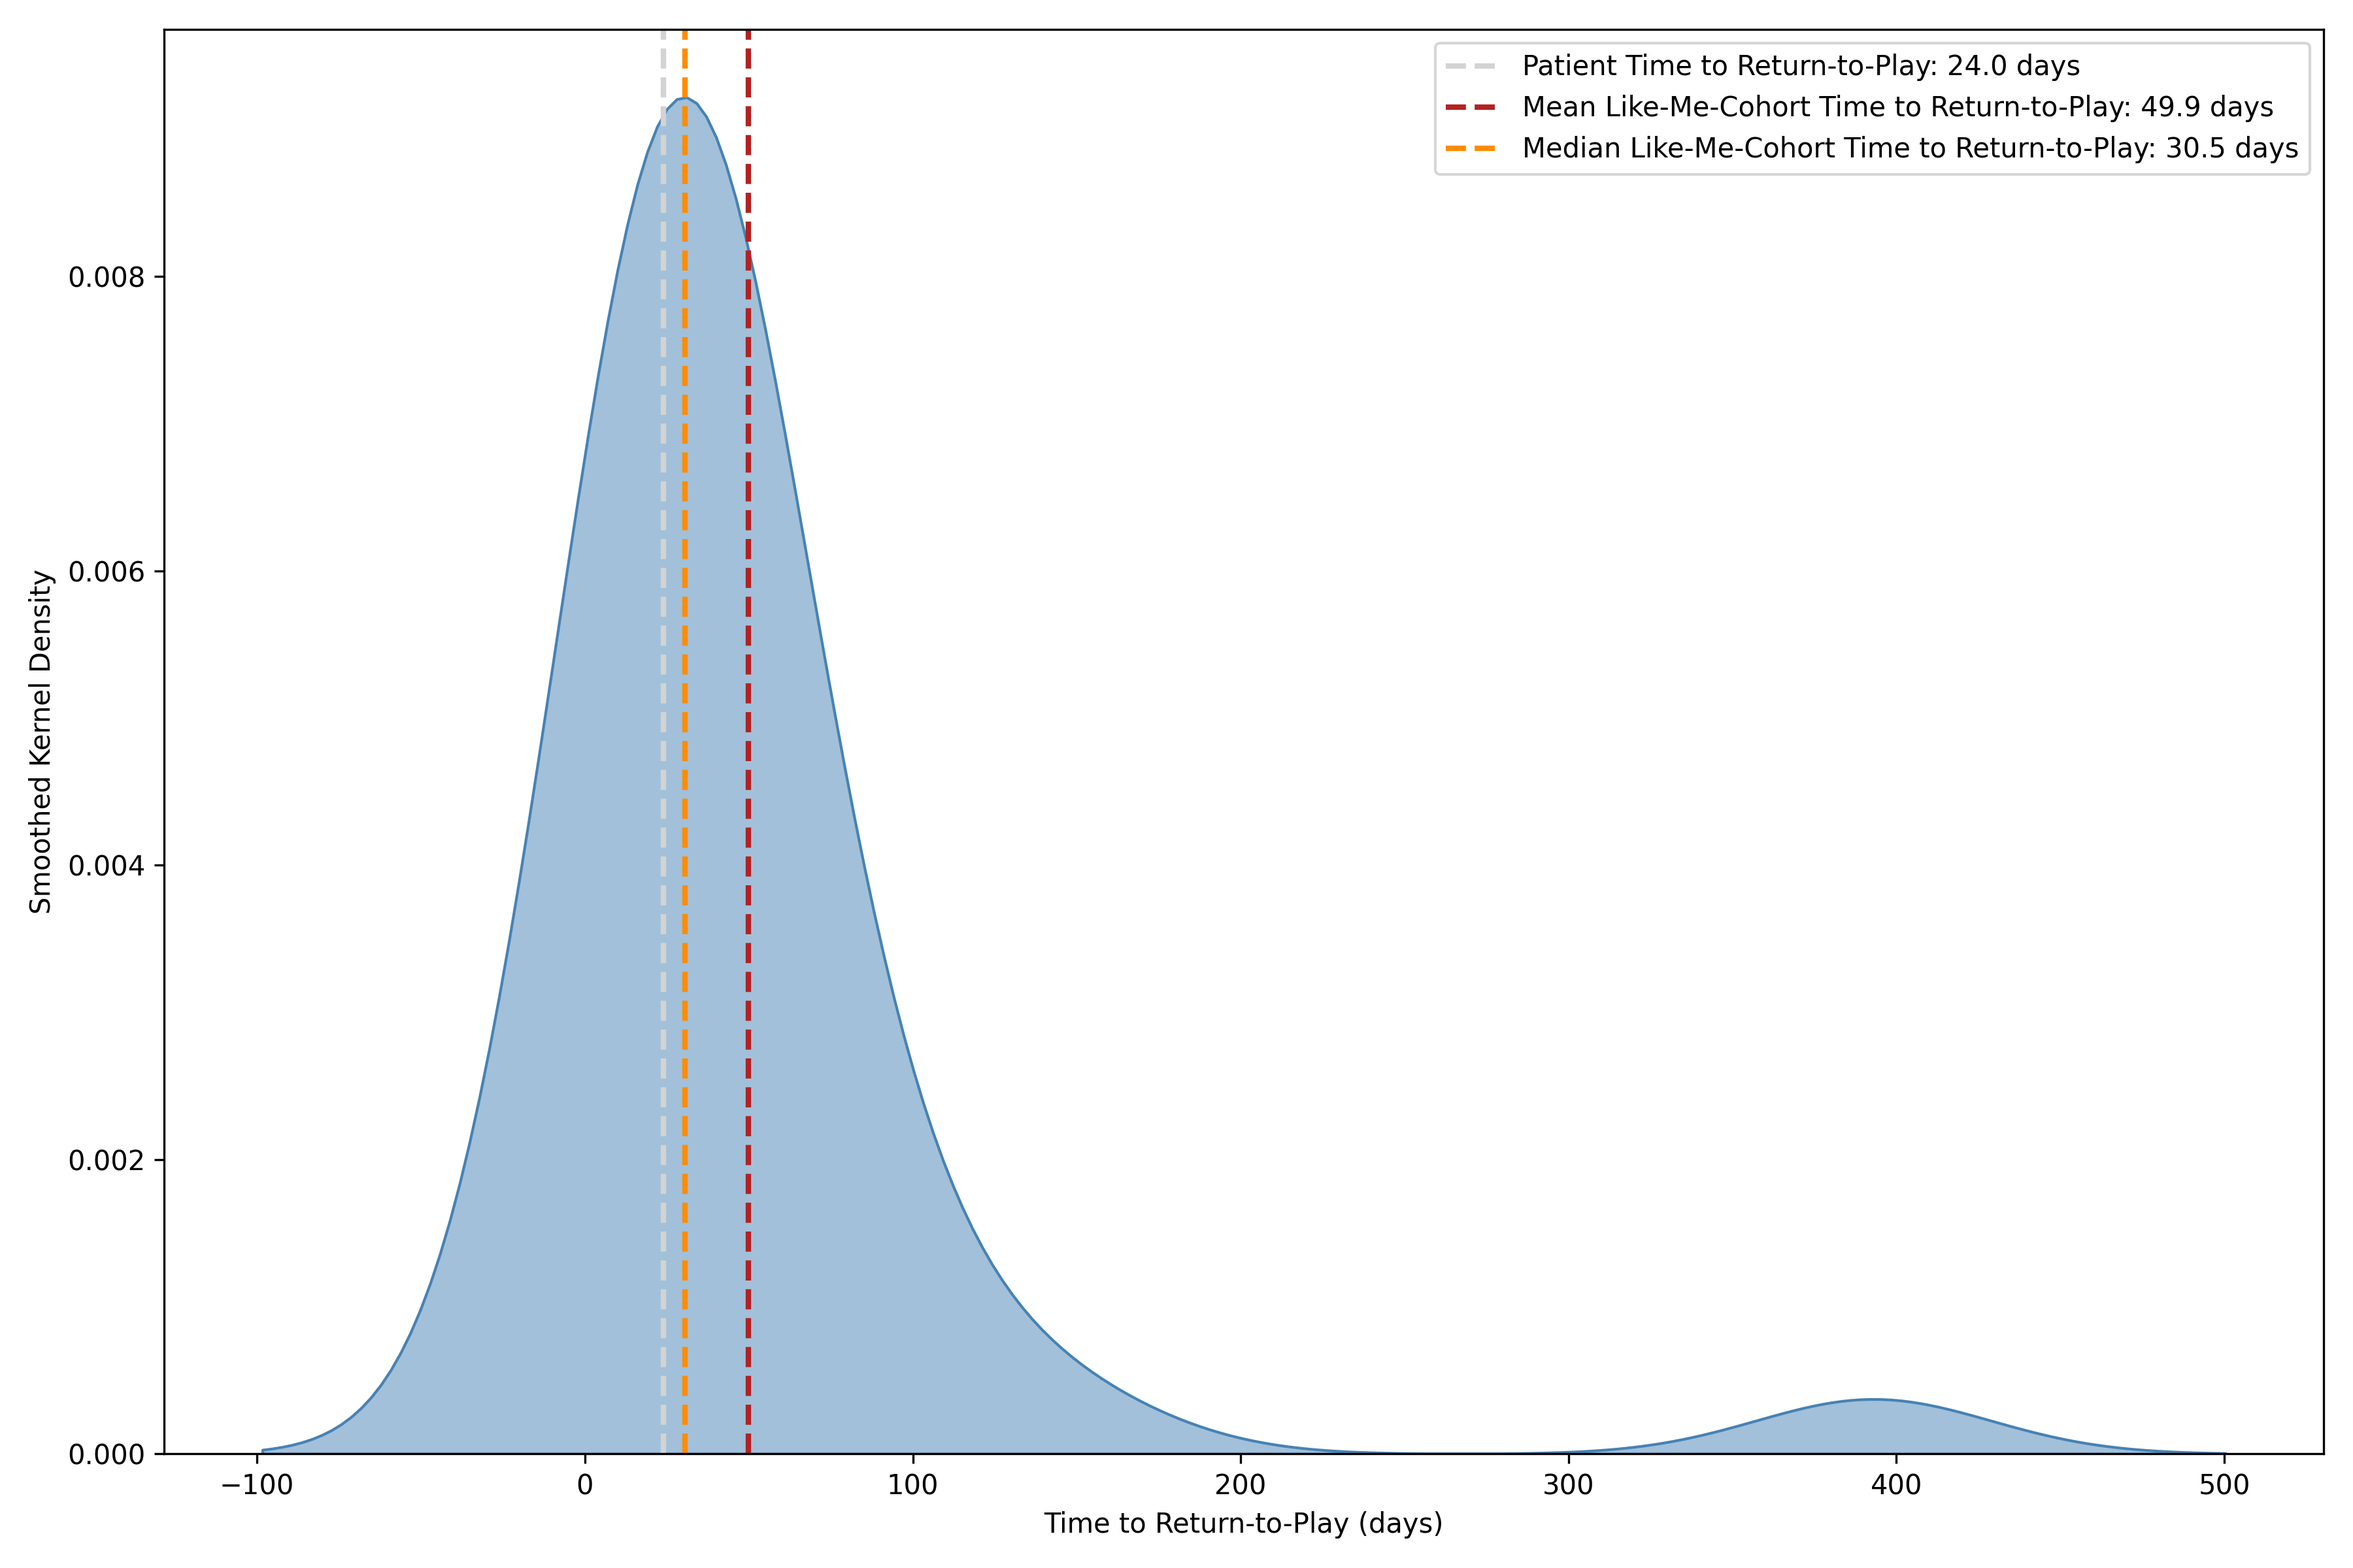
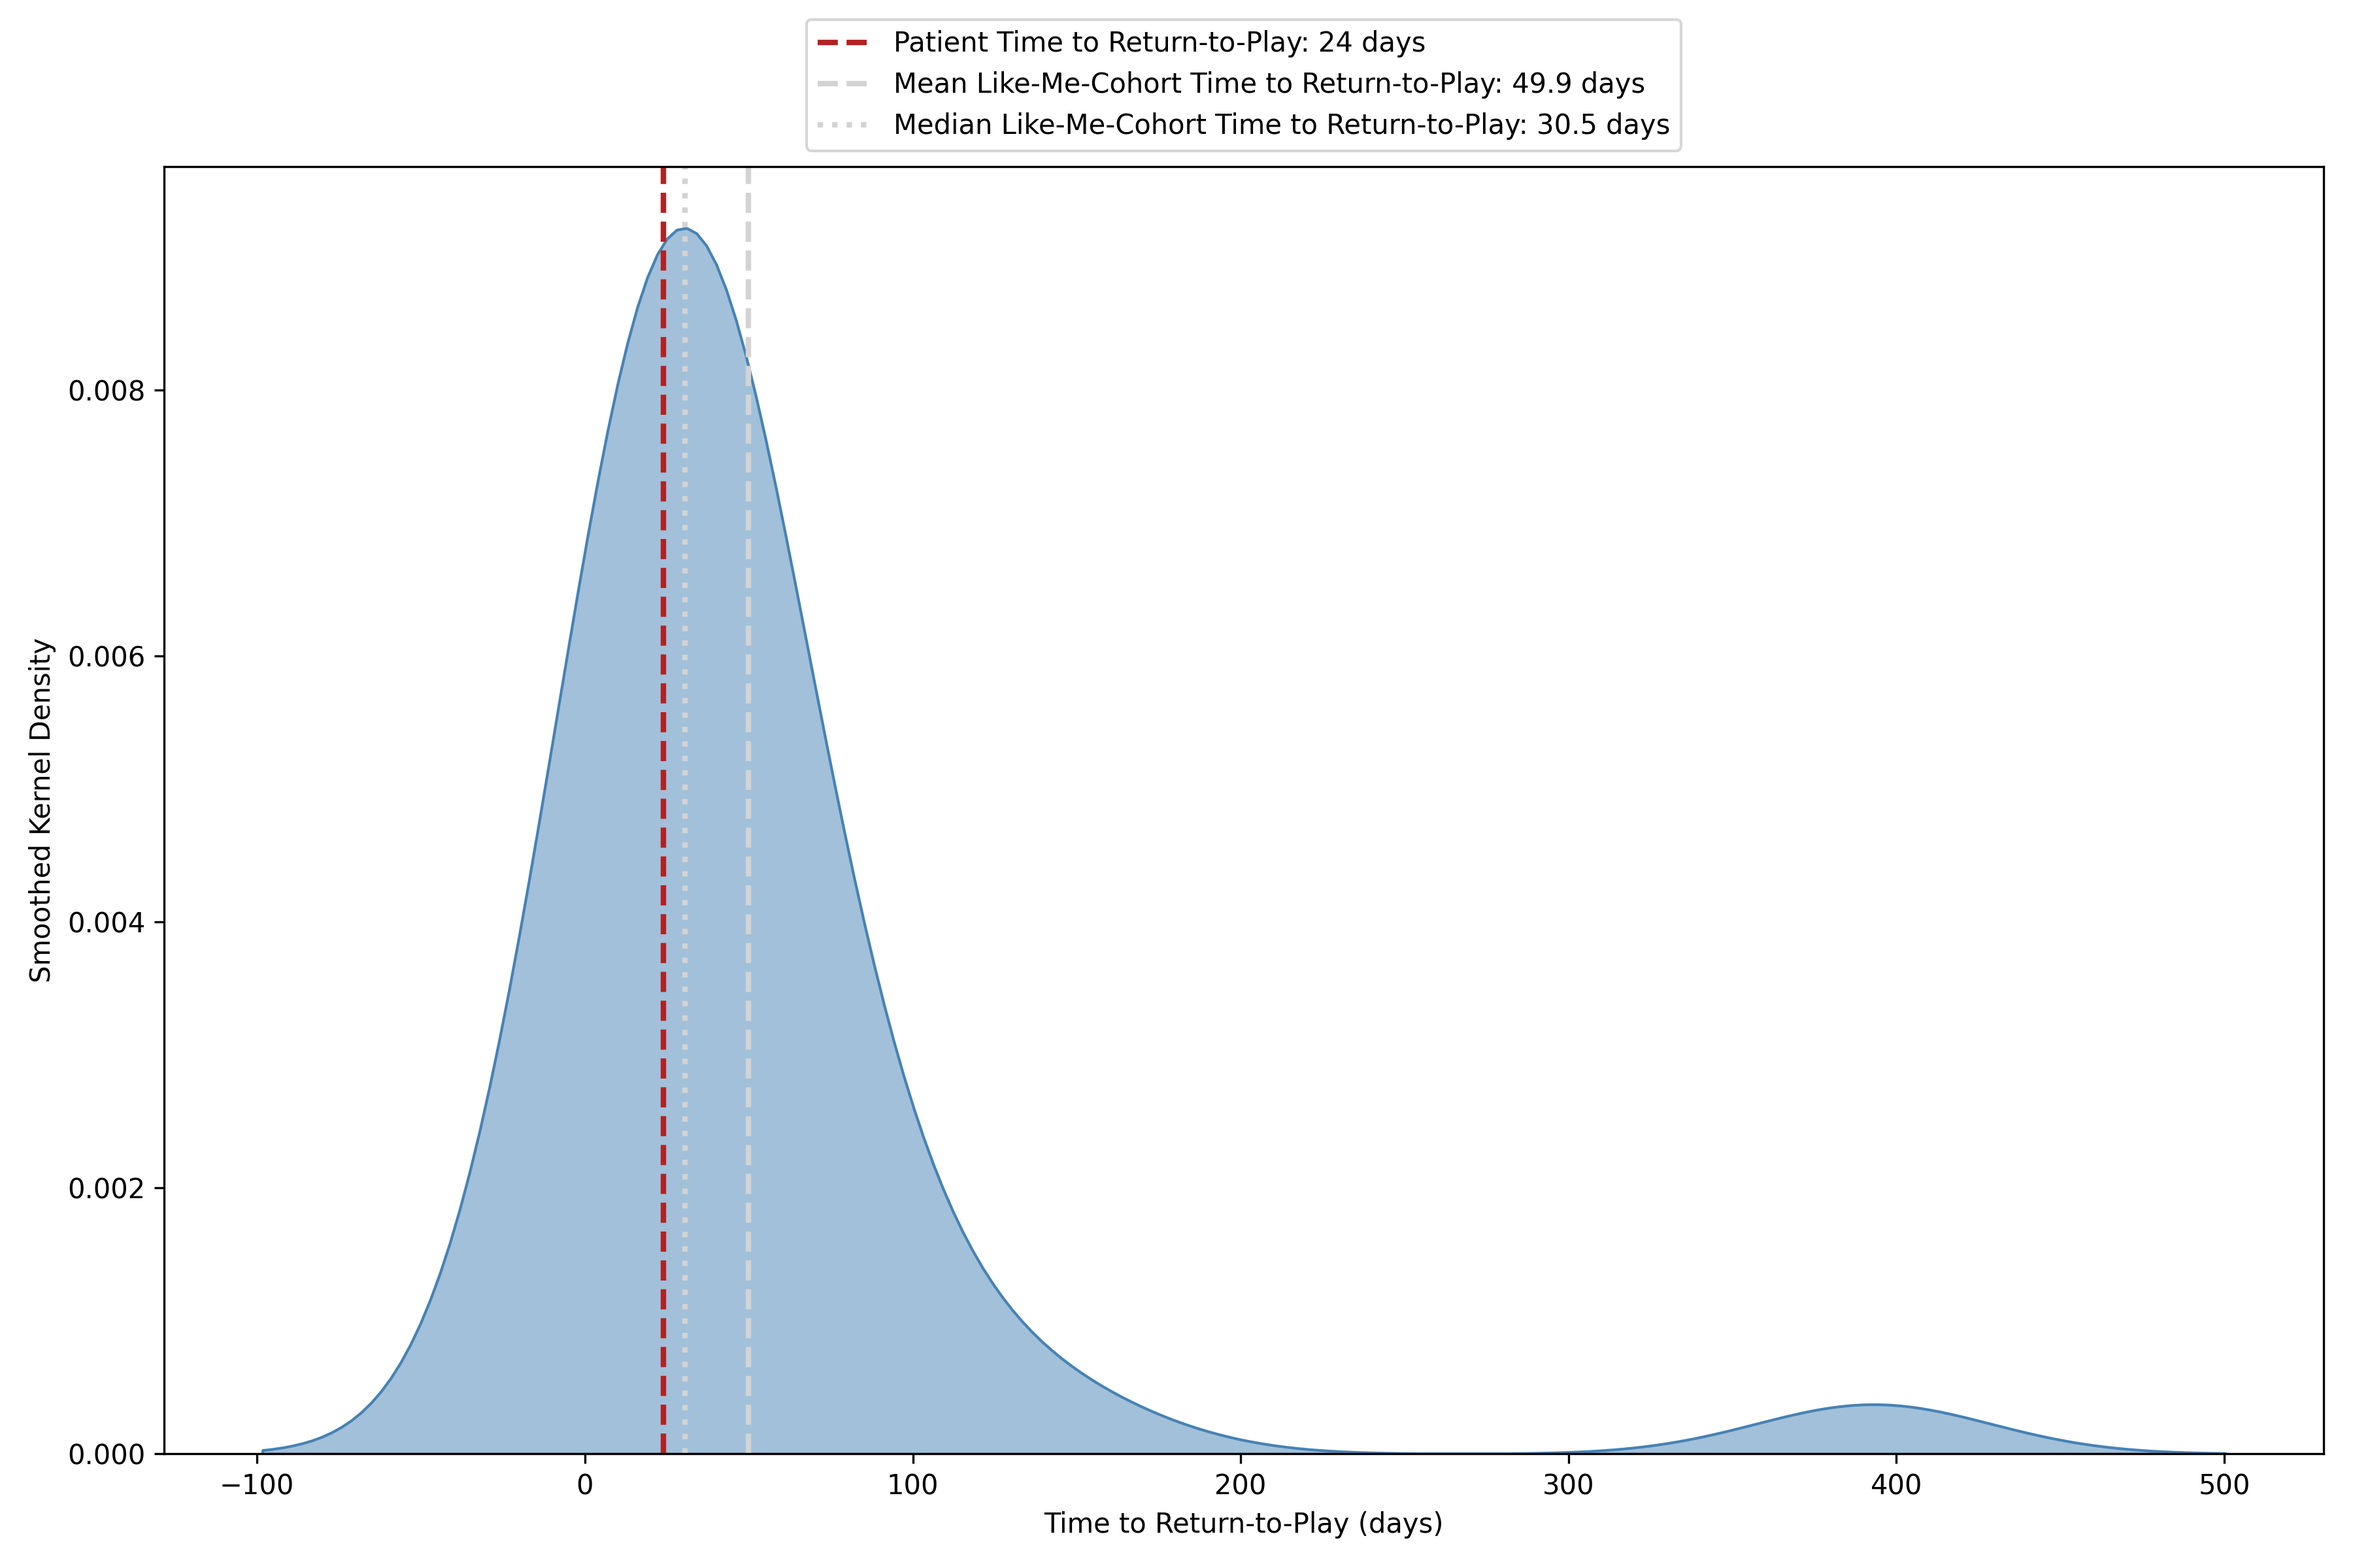
finish figures

diff --git a/mahalanobis_distance.py b/mahalanobis_distance.py
@@ -97,9 +97,10 @@ sn.kdeplot(
     fill=True,
     alpha=0.5,
     color='steelblue')
-plt.axvline(mean_centered_pt_mahalanobis_distance_from_cohort, color='firebrick', linestyle='--', linewidth=2, label="Patient Mahalanobis Distance")
+plt.axvline(mean_centered_pt_mahalanobis_distance_from_cohort, color='firebrick', linestyle='--', linewidth=2, label="Patient Mahalanobis Distance from Cohort")
 plt.xlabel("Mahalanobis Distances")
 plt.ylabel("Smoothed Kernel Density")
+plt.legend(loc='upper center', bbox_to_anchor=(0.5, 1.1))
 plt.savefig("./figs/kde_plot_example", dpi=300)
 plt.show()
 
@@ -130,21 +131,26 @@ print(patient_y)
 # time_since_injury
 fig, axes = plt.subplots(2, 2, figsize=(10, 7))
 
-sn.boxplot(data=like_me_cohort['time_since_injury'], ax=axes[0], color='lightgrey', showfliers=False)
-sn.stripplot(data=like_me_cohort['time_since_injury'], ax=axes[0], color='dimgrey', size=4, jitter=True)
-axes[0].set_ylabel("Time since injury (days)", fontsize=12)
+sn.boxplot(data=like_me_cohort['time_since_injury'], ax=axes[0, 0], color='lightgrey', showfliers=False)
+sn.stripplot(data=like_me_cohort['time_since_injury'], ax=axes[0, 0], color='dimgrey', size=4, jitter=True)
+axes[0, 0].scatter(0, patient['time_since_injury'], s=80, linewidths=2, marker='x', color='firebrick', edgecolor='white', zorder=5, label='Patient value')
+axes[0, 0].set_ylabel("Time since injury (days)", fontsize=12)
+axes[0, 0].legend(loc='upper center', bbox_to_anchor=(0.5, 1.15), fontsize=12)
 
-sn.boxplot(data=like_me_cohort['age'], ax=axes[1], color='lightgrey', showfliers=False)
-sn.stripplot(data=like_me_cohort['age'], ax=axes[1], color='dimgrey', size=4, jitter=True)
-axes[1].set_ylabel("Age (years)", fontsize=12)
+sn.boxplot(data=like_me_cohort['age'], ax=axes[0, 1], color='lightgrey', showfliers=False)
+sn.stripplot(data=like_me_cohort['age'], ax=axes[0, 1], color='dimgrey', size=4, jitter=True)
+axes[0, 1].scatter(0, patient['age'], s=80, linewidths=2, marker='x', color='firebrick', edgecolor='white', zorder=5)
+axes[0, 1].set_ylabel("Age (years)", fontsize=12)
 
-sn.boxplot(data=like_me_cohort['HBI_total'], ax=axes[2], color='lightgrey', showfliers=False)
-sn.stripplot(data=like_me_cohort['HBI_total'], ax=axes[2], color='dimgrey', size=4, jitter=True)
-axes[2].set_ylabel("Symptom burden (HBI total score)", fontsize=12)
+sn.boxplot(data=like_me_cohort['HBI_total'], ax=axes[1, 0], color='lightgrey', showfliers=False)
+sn.stripplot(data=like_me_cohort['HBI_total'], ax=axes[1, 0], color='dimgrey', size=4, jitter=True)
+axes[1, 0].scatter(0, patient['HBI_total'], s=80, linewidths=2, marker='x', color='firebrick', edgecolor='white', zorder=5)
+axes[1, 0].set_ylabel("Symptom burden (HBI total score)", fontsize=12)
 
-sn.boxplot(data=like_me_cohort['number_prior_conc'], ax=axes[3], color='lightgrey', showfliers=False)
-sn.stripplot(data=like_me_cohort['number_prior_conc'], ax=axes[3], color='dimgrey', size=4, jitter=True)
-axes[3].set_ylabel("Number of prior concussions", fontsize=12)
+sn.boxplot(data=like_me_cohort['headache_severity'], ax=axes[1, 1], color='lightgrey', showfliers=False)
+sn.stripplot(data=like_me_cohort['headache_severity'], ax=axes[1, 1], color='dimgrey', size=4, jitter=True)
+axes[1, 1].scatter(0, patient['headache_severity'], s=80, linewidths=2, marker='x', color='firebrick', edgecolor='white', zorder=5)
+axes[1, 1].set_ylabel("Headache severity", fontsize=12)
 
 plt.tight_layout()
 plt.savefig("./figs/like_me_aggregated_X", dpi=300, bbox_inches='tight')
@@ -159,12 +165,12 @@ sn.kdeplot(
     fill=True,
     alpha=0.5,
     color='steelblue')
-plt.axvline(patient_y['time_sx'], color='lightgrey', linestyle='--', linewidth=2, label=f"Patient Time to Symptom Resolution: {patient_y['time_sx']:.0f} days")
-plt.axvline(np.nanmean(like_me_y['time_sx']), color='firebrick', linestyle='--', linewidth=2, label=f"Mean Like-Me-Cohort Time to Symptom Resolution: {np.nanmean(like_me_y['time_sx']):.1f} days")
-plt.axvline(np.nanmedian(like_me_y['time_sx']), color='darkorange', linestyle='--', linewidth=2, label=f"Median Like-Me-Cohort Time to Symptom Resolution: {np.nanmedian(like_me_y['time_sx']):.1f} days")
+plt.axvline(patient_y['time_sx'], color='firebrick', linestyle='--', linewidth=2, label=f"Patient Time to Symptom Resolution: {patient_y['time_sx']:.0f} days")
+plt.axvline(np.nanmean(like_me_y['time_sx']), color='lightgrey', linestyle='--', linewidth=2, label=f"Mean Like-Me-Cohort Time to Symptom Resolution: {np.nanmean(like_me_y['time_sx']):.1f} days")
+plt.axvline(np.nanmedian(like_me_y['time_sx']), color='lightgrey', linestyle=':', linewidth=2, label=f"Median Like-Me-Cohort Time to Symptom Resolution: {np.nanmedian(like_me_y['time_sx']):.1f} days")
 plt.xlabel("Time to Symptom Resolution (days)")
 plt.ylabel("Smoothed Kernel Density")
-plt.legend(loc='best')
+plt.legend(loc='upper center', bbox_to_anchor=(0.5, 1.125))
 plt.tight_layout()
 plt.savefig("./figs/like_me_aggregated_time_sx", dpi=300)
 plt.show()
@@ -176,12 +182,12 @@ sn.kdeplot(
     fill=True,
     alpha=0.5,
     color='steelblue')
-plt.axvline(patient_y['time_rtp'], color='lightgrey', linestyle='--', linewidth=2, label=f"Patient Time to Return-to-Play: {patient_y['time_rtp']:.0f} days")
-plt.axvline(np.nanmean(like_me_y['time_rtp']), color='firebrick', linestyle='--', linewidth=2, label=f"Mean Like-Me-Cohort Time to Return-to-Play: {np.nanmean(like_me_y['time_rtp']):.1f} days")
-plt.axvline(np.nanmedian(like_me_y['time_rtp']), color='darkorange', linestyle='--', linewidth=2, label=f"Median Like-Me-Cohort Time to Return-to-Play: {np.nanmedian(like_me_y['time_rtp']):.1f} days")
+plt.axvline(patient_y['time_rtp'], color='firebrick', linestyle='--', linewidth=2, label=f"Patient Time to Return-to-Play: {patient_y['time_rtp']:.0f} days")
+plt.axvline(np.nanmean(like_me_y['time_rtp']), color='lightgrey', linestyle='--', linewidth=2, label=f"Mean Like-Me-Cohort Time to Return-to-Play: {np.nanmean(like_me_y['time_rtp']):.1f} days")
+plt.axvline(np.nanmedian(like_me_y['time_rtp']), color='lightgrey', linestyle=':', linewidth=2, label=f"Median Like-Me-Cohort Time to Return-to-Play: {np.nanmedian(like_me_y['time_rtp']):.1f} days")
 plt.xlabel("Time to Return-to-Play (days)")
 plt.ylabel("Smoothed Kernel Density")
-plt.legend(loc='best')
+plt.legend(loc='upper center', bbox_to_anchor=(0.5, 1.125))
 plt.tight_layout()
 plt.savefig("./figs/like_me_aggregated_time_rtp", dpi=300)
 plt.show()
@@ -191,7 +197,7 @@ nanFilled_PPCS = pd.to_numeric(like_me_y['PPCS'], errors='coerce')
 cats = nanFilled_PPCS.map({0: 'No PSaC', 1: 'PSaC'}).fillna('Missing')
 order = ['No PSaC', 'PSaC', 'Missing']
 values = {k: cats.value_counts().get(k, 0) for k in order}
-colors = ['#2ca02c', '#d62728', '#bdbdbd']  # green, red, grey
+colors = ['#2ca02c', '#d62728', '#bdbdbd']
 
 plt.figure(
     figsize=(12,8),

diff --git a/UMAP_and_cluster.py b/UMAP_and_cluster.py
@@ -1,3 +1,6 @@
+from mahalanobis_distance import cohort, y, patient, patient_y
+from mahalanobis_distance import like_me_cohort, like_me_y
+
 
 # like_me_cohort
 # like_me_y
